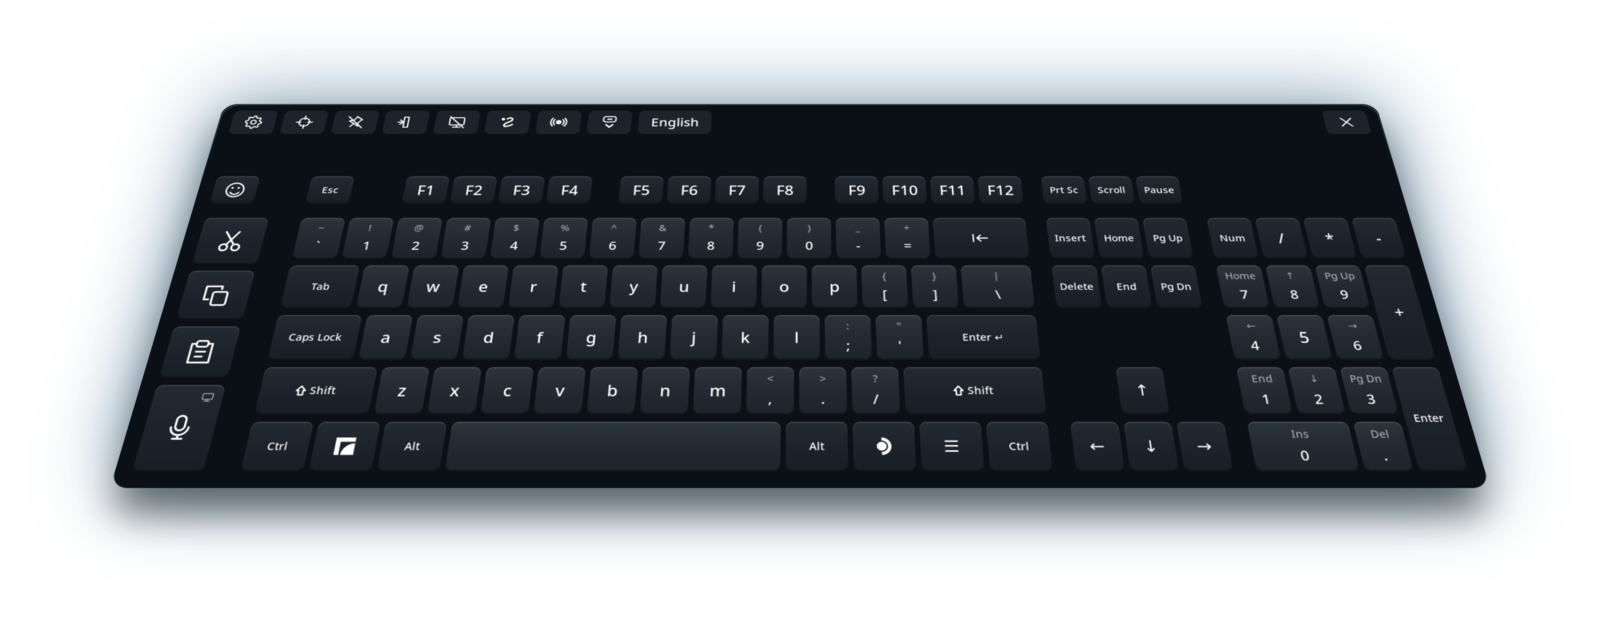
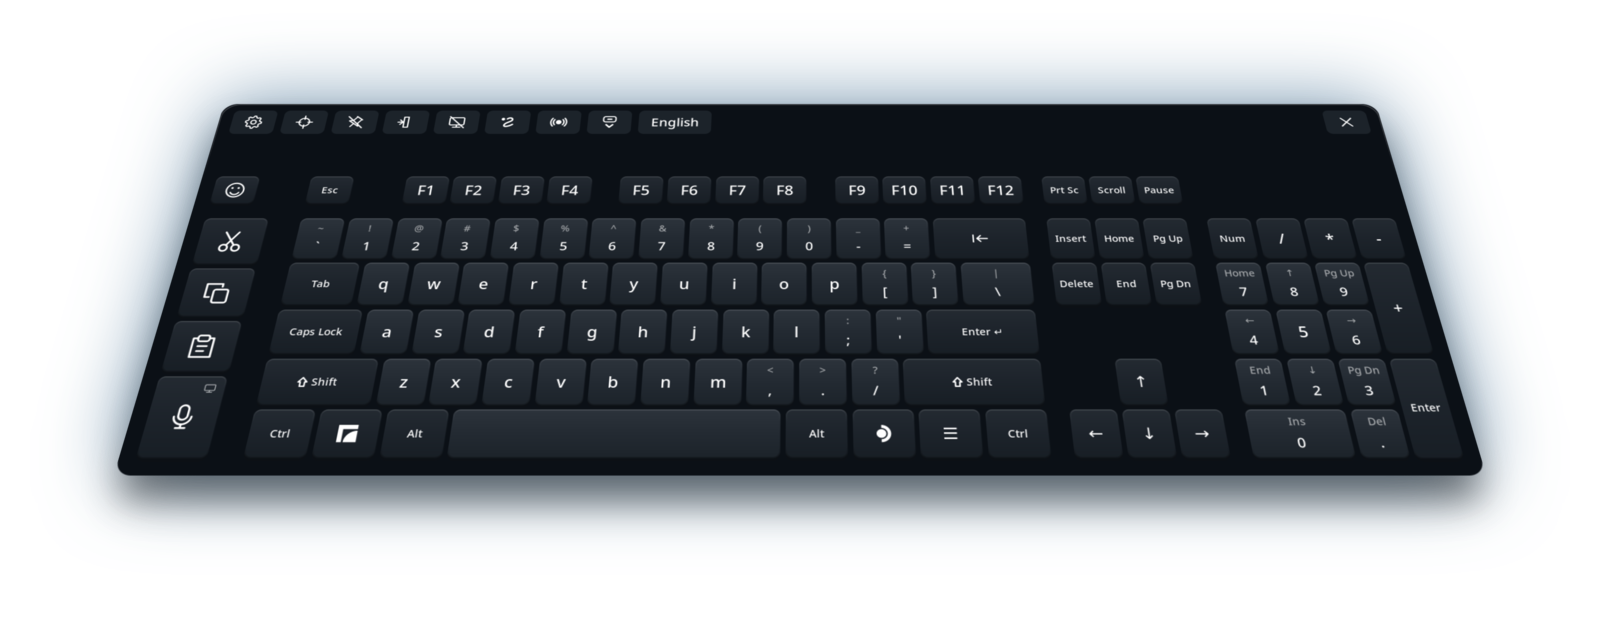
Show the keyboard's 400-unit rows in the pictures
Every bundled layout is 400 units tall since this release, but the README
image, its tilted copy and the simulator's picture still showed the 416-unit
rows. They are regenerated: the README image and keyboard-tilted.png by the
recipe in docs/building.md, simulator.png from simulator-tour's
05b-converting-after-text, whose recipe docs/simulator.md now gives.

The installer embeds the README image. Where its case ends, where the demos'
keys lie and where the numpad starts were numbers measured off the old
picture; they now come from the panel's own geometry for the full layout
(picture_geometry), and a test checks them against the embedded picture.

diff --git a/src/installer/installer.cpp b/src/installer/installer.cpp
@@ -16,25 +16,20 @@ namespace {
 
 constexpr double pi = 3.141592653589793;
 // The keyboard picture on Home: the case, 1600 x panel_height, at 56% and
-// centered. In the picture the case ends 588 pixels down, where its
-// reflection starts here. Setup slides it up.
-constexpr double picture_scale = .56, case_bottom = 588;
+// centered; its reflection starts where the case ends (PictureGeometry).
+// Setup slides it up.
+constexpr double picture_scale = .56;
 constexpr Rect picture{(Installer::width - panel_width * picture_scale) / 2, 48,
                        panel_width * picture_scale, panel_height * picture_scale};
 constexpr double slide_distance = 300, slide_seconds = .7;
 // How far a pressed button moves down: the keys' own travel.
 constexpr double press_travel = 3;
 // The same picture in the wizard: whole, as wide as a page's stage allows,
-// and at half size for a closer look at its right end. Its numpad starts
-// 1306 pixels across; without it the case ends 20 further.
-constexpr double mini_scale = .2625, half_scale = .5, numpad_left = 1306, tenkeyless_width = 1326;
+// and at half size for a closer look at its right end.
+constexpr double mini_scale = .2625, half_scale = .5;
 // The shortcut bar's picture: large enough for its buttons' labels to read,
 // with the top of the keyboard below it.
 constexpr double bar_scale = .9;
-// Where keys lie in the picture: the main block's left edge and key pitch,
-// and the middle of each row from the digits down.
-constexpr double keys_left = 146, key_pitch = 63.6;
-constexpr std::array<double, 5> row_middle{232, 307, 381, 456, 531};
 // Home: Install and its version list's chevron, one control, centered.
 constexpr Rect install_main{430, 554, 340, 76}, install_more{770, 554, 80, 76};
 // Setup's card: each page's picture on a stage to the left, its text to the
@@ -162,6 +157,45 @@ cairo_surface_t* scaled(cairo_surface_t* source, double scale) {
 
 } // namespace
 
+// The picture is the README image, the keyboard as the panel draws it with
+// the full layout in its theme (docs/building.md), so where its case ends and
+// where its keys lie come from the panel's own geometry for that layout, not
+// from numbers measured off one picture.
+PictureGeometry picture_geometry(const Layout& layout, const Theme& theme) {
+    PanelView view;
+    view.layout = &layout;
+    view.theme = &theme;
+    view.reading_room = reading_case_room(layout, theme, false); // as App gives every layout
+    PictureGeometry g;
+    const auto body = panel_case_bounds(view);
+    g.case_bottom = body.y + body.height;
+    const auto at = [&](const char* id) {
+        for (const auto& key : layout.keys) {
+            if (key.id == id) {
+                return panel_rect(view, key.bounds);
+            }
+        }
+        return Rect{};
+    };
+    g.keys_left = at("Backquote").x;
+    g.key_pitch = at("Digit2").x - at("Digit1").x;
+    std::size_t row = 0;
+    for (const char* id : {"Backquote", "Tab", "CapsLock", "ShiftLeft", "ControlLeft"}) {
+        const auto r = at(id);
+        g.row_middle[row++] = r.y + r.height / 2;
+    }
+    // The numpad starts where the keys before it end; without it the case
+    // ends one padding further.
+    for (const auto& key : layout.keys) {
+        if (key.action != "NumLock" && !key.action.starts_with("Numpad")) {
+            const auto r = panel_rect(view, key.bounds);
+            g.numpad_left = std::max(g.numpad_left, r.x + r.width);
+        }
+    }
+    g.tenkeyless_width = g.numpad_left + theme.padding;
+    return g;
+}
+
 Installer::Installer(Backend& backend, Theme theme, Layout layout, const Localization& localization)
     : backend_(backend), theme_(std::move(theme)), layout_(std::move(layout)),
       localization_(localization), font_(localization.fonts()),
@@ -170,6 +204,7 @@ Installer::Installer(Backend& backend, Theme theme, Layout layout, const Localiz
       half_(nullptr, cairo_surface_destroy), bar_picture_(nullptr, cairo_surface_destroy),
       backdrop_(nullptr, cairo_surface_destroy), grounded_(nullptr, cairo_surface_destroy),
       card_(nullptr, cairo_surface_destroy), plate_(nullptr, cairo_surface_destroy) {
+    picture_ = picture_geometry(layout_, theme_);
     PngReader reader{keyboard_png, keyboard_png_size};
     Surface image(cairo_image_surface_create_from_png_stream(read_png, &reader), cairo_surface_destroy);
     if (cairo_surface_status(image.get()) == CAIRO_STATUS_SUCCESS) {
@@ -921,7 +956,7 @@ void Installer::paint_keyboard(double slide) {
         return;
     }
     const double y = std::round(picture.y - slide_distance * slide);
-    const double floor = y + case_bottom * picture_scale;
+    const double floor = y + picture_.case_bottom * picture_scale;
     // At rest it is one picture with its shadow and reflection.
     constexpr Rect resting{picture.x - 20, picture.y - 4, picture.width + 40, picture.height + 70};
     if (slide <= 0 && (!grounded_ || cairo_get_target(cr_) != grounded_.get())) {
@@ -945,7 +980,7 @@ void Installer::paint_keyboard(double slide) {
         constexpr double depth = 56;
         auto* mirrored = cairo_pattern_create_for_surface(hero_.get());
         cairo_matrix_t flip;
-        cairo_matrix_init(&flip, 1, 0, 0, -1, -picture.x, floor + case_bottom * picture_scale);
+        cairo_matrix_init(&flip, 1, 0, 0, -1, -picture.x, floor + picture_.case_bottom * picture_scale);
         cairo_pattern_set_matrix(mirrored, &flip);
         cairo_save(cr_);
         cairo_rectangle(cr_, picture.x, floor + 2, picture.width, depth);
@@ -977,8 +1012,9 @@ void Installer::small_picture(cairo_surface_t* small, double s, double x, double
     if (!small) {
         return;
     }
-    const double h = case_bottom * s;
-    const Rect body{x, y, (tenkeyless_width + (panel_width - tenkeyless_width) * numpad) * s, h};
+    const double h = picture_.case_bottom * s;
+    const Rect body{
+        x, y, (picture_.tenkeyless_width + (panel_width - picture_.tenkeyless_width) * numpad) * s, h};
     const double radius = theme_.surface_radius * s;
     for (int i = 1; i <= 3; ++i) {
         paint::rounded(cr_, {body.x - i, body.y + i * 2, body.width + 2 * i, body.height}, radius + i);
@@ -993,10 +1029,10 @@ void Installer::small_picture(cairo_surface_t* small, double s, double x, double
     paint::source(cr_, theme_.surface);
     cairo_paint(cr_);
     cairo_set_source_surface(cr_, small, x, y);
-    cairo_rectangle(cr_, x, y, numpad_left * s, h);
+    cairo_rectangle(cr_, x, y, picture_.numpad_left * s, h);
     cairo_fill(cr_);
     if (numpad > 0) {
-        cairo_rectangle(cr_, x + numpad_left * s, y, body.width - numpad_left * s, h);
+        cairo_rectangle(cr_, x + picture_.numpad_left * s, y, body.width - picture_.numpad_left * s, h);
         cairo_clip(cr_);
         cairo_paint_with_alpha(cr_, numpad * numpad);
     }
@@ -1750,7 +1786,8 @@ void Installer::paint_replace_demo(const Rect& s, double t) {
 
     // The keyboard: up when the field is chosen, down when it's done.
     const double rise = c < 4.4 ? ease_out(phase(c, .5, .6)) : 1 - ease_in_out(phase(c, 4.4, .6));
-    const double rest = s.y + s.height - 30 - case_bottom * mini_scale, hidden = s.y + s.height + 16;
+    const double rest = s.y + s.height - 30 - picture_.case_bottom * mini_scale,
+                 hidden = s.y + s.height + 16;
     const double kx = s.x + (s.width - panel_width * mini_scale) / 2;
     const double ky = hidden + (rest - hidden) * rise;
     small_picture(mini_.get(), mini_scale, kx, ky, 1);
@@ -1759,8 +1796,10 @@ void Installer::paint_replace_demo(const Rect& s, double t) {
         {{6.25, 2}, {3.5, 1}, {9.25, 2}, {9.25, 2}, {9.5, 1}, {7, 4}, {1.25, 2}, {5.5, 1}}};
     const auto at = [&](std::size_t i) {
         const auto& [column, row] = keys[std::min(i, keys.size() - 1)];
-        return std::pair{kx + (keys_left + column * key_pitch + key_pitch / 2) * mini_scale,
-                         ky + row_middle[static_cast<std::size_t>(row)] * mini_scale};
+        return std::pair{
+            kx +
+                (picture_.keys_left + column * picture_.key_pitch + picture_.key_pitch / 2) * mini_scale,
+            ky + picture_.row_middle[static_cast<std::size_t>(row)] * mini_scale};
     };
     const double hop = std::max(0.0, (c - typing) / step);
     const auto from = at(static_cast<std::size_t>(hop)), to = at(static_cast<std::size_t>(hop) + 1);
@@ -2055,9 +2094,9 @@ void Installer::paint_numpad_demo(const Rect& s, double t) {
     const double numpad = choice_shown(4);
     // The case's right edge keeps its margin with the numpad and comes half
     // the numpad's width inward without it; the rest runs off to the left.
-    const double narrowed = (panel_width - tenkeyless_width) * (1 - numpad) * scale;
+    const double narrowed = (panel_width - picture_.tenkeyless_width) * (1 - numpad) * scale;
     const double x = s.x + s.width - margin - panel_width * scale + narrowed / 2;
-    const double y = s.y + (s.height - case_bottom * scale) / 2;
+    const double y = s.y + (s.height - picture_.case_bottom * scale) / 2;
     cairo_push_group(cr_);
     small_picture(half_.get(), scale, x, y, numpad);
     cairo_pop_group_to_source(cr_);
@@ -2075,7 +2114,7 @@ void Installer::paint_numpad_demo(const Rect& s, double t) {
     const auto at = [&](std::size_t i) {
         i = std::min(i, digits - 1);
         return std::pair{x + (1362 + 63.0 * static_cast<double>(i % 3)) * scale,
-                         y + row_middle[1 + i / 3] * scale};
+                         y + picture_.row_middle[1 + i / 3] * scale};
     };
     const double hop = std::max(0.0, (c - typing) / step);
     const auto from = at(static_cast<std::size_t>(hop)), to = at(static_cast<std::size_t>(hop) + 1);
@@ -2095,9 +2134,10 @@ void Installer::paint_curve_demo(const Rect& s, double t) {
     // The real proportions, in the picture's pixels at mini_scale: the
     // handle is 8 by 200 texture pixels, its middle 42 outside the case.
     constexpr double fit = .86, most = .12, eye = 1.5, drop = .3;
-    const double width = panel_width * mini_scale * fit, height = case_bottom * mini_scale * fit;
+    const double width = panel_width * mini_scale * fit,
+                 height = picture_.case_bottom * mini_scale * fit;
     const double cx = s.x + s.width / 2, cy = s.y + s.height / 2 - 6;
-    const double kx = cx - panel_width * mini_scale / 2, ky = cy - case_bottom * mini_scale / 2;
+    const double kx = cx - panel_width * mini_scale / 2, ky = cy - picture_.case_bottom * mini_scale / 2;
 
     constexpr double cycle = 6.4, arrive = .8, grab = 1.0, bent = 2.2, let_go = 2.6, regrab = 3.4,
                      flat = 4.6, release = 4.8, leave = 5.4;
@@ -2307,7 +2347,8 @@ void Installer::paint_stream_demo(const Rect& s, double t) {
     // The keyboard: up while the line is typed, down when it is sent.
     const double rise =
         c < done + hold ? ease_out(phase(c, .3, .6)) : 1 - ease_in_out(phase(c, done + hold, .6));
-    const double rest = s.y + s.height - 30 - case_bottom * mini_scale, hidden = s.y + s.height + 16;
+    const double rest = s.y + s.height - 30 - picture_.case_bottom * mini_scale,
+                 hidden = s.y + s.height + 16;
     const double kx = s.x + (s.width - panel_width * mini_scale) / 2;
     const double ky = hidden + (rest - hidden) * rise;
     small_picture(mini_.get(), mini_scale, kx, ky, 1);
@@ -2316,8 +2357,10 @@ void Installer::paint_stream_demo(const Rect& s, double t) {
         {{4.5, 2}, {7.5, 1}, {1.5, 3}, {6, 2}, {9, 1}, {3, 1}, {5.5, 3}}};
     const auto at = [&](std::size_t i) {
         const auto& [column, row] = keys[i % keys.size()];
-        return std::pair{kx + (keys_left + column * key_pitch + key_pitch / 2) * mini_scale,
-                         ky + row_middle[static_cast<std::size_t>(row)] * mini_scale};
+        return std::pair{
+            kx +
+                (picture_.keys_left + column * picture_.key_pitch + picture_.key_pitch / 2) * mini_scale,
+            ky + picture_.row_middle[static_cast<std::size_t>(row)] * mini_scale};
     };
     const double hop = std::clamp(progress, 0.0, count - 1);
     const auto from = at(static_cast<std::size_t>(hop)), to = at(static_cast<std::size_t>(hop) + 1);

diff --git a/tests/installer_wizard_tests.cpp b/tests/installer_wizard_tests.cpp
@@ -3,6 +3,7 @@
 // downloaded or started, and no settings file is written.
 #include "../src/installer/installer.hpp"
 #include "framekeyboard/config.hpp"
+#include <algorithm>
 #include <cairo.h>
 #include <cstdint>
 #include <iostream>
@@ -11,6 +12,10 @@
 #include <string>
 #include <vector>
 
+namespace framekeyboard::installer {
+extern const unsigned char keyboard_png[];
+extern const std::size_t keyboard_png_size;
+} // namespace framekeyboard::installer
 namespace fk = framekeyboard;
 namespace in = framekeyboard::installer;
 using A = in::Installer::Action;
@@ -48,7 +53,8 @@ struct RecordingBackend : in::Backend {
         finished = choices;
         state.task = in::Task::Finish;
         state.state = fail_streaming && choices.streaming ? in::State::Failed : in::State::Done;
-        state.error = state.state == in::State::Failed ? fk::ui("installer.error.streaming") : fk::UiText{};
+        state.error =
+            state.state == in::State::Failed ? fk::ui("installer.error.streaming") : fk::UiText{};
     }
     in::Status status() override { return state; }
 };
@@ -259,6 +265,54 @@ void finish_list_fits(const fk::Profiles& profiles) {
                 std::string(posix) + ": and with Restart SteamOS ticked");
     }
 }
+// The picture's geometry, derived from the layout it shows, matches the
+// embedded picture: its case ends where the derived case does, and a key the
+// demos aim at is drawn where the derived rows and pitch put it.
+void picture_geometry(const fk::Profiles& profiles) {
+    struct Reader {
+        const unsigned char* data;
+        std::size_t size, at;
+    } reader{in::keyboard_png, in::keyboard_png_size, 0};
+    auto* picture = cairo_image_surface_create_from_png_stream(
+        [](void* closure, unsigned char* out, unsigned int length) {
+            auto& r = *static_cast<Reader*>(closure);
+            if (r.size - r.at < length) {
+                return CAIRO_STATUS_READ_ERROR;
+            }
+            std::copy_n(r.data + r.at, length, out);
+            r.at += length;
+            return CAIRO_STATUS_SUCCESS;
+        },
+        &reader);
+    require(cairo_surface_status(picture) == CAIRO_STATUS_SUCCESS, "the embedded picture decodes");
+    const auto* data = cairo_image_surface_get_data(picture);
+    const int stride = cairo_image_surface_get_stride(picture);
+    const int height = cairo_image_surface_get_height(picture);
+    const auto alpha = [&](int x, int y) {
+        return reinterpret_cast<const std::uint32_t*>(data + y * stride)[x] >> 24;
+    };
+    // The case's last opaque row, at its left, where no key or line lies.
+    int last = 0;
+    while (last + 1 < height && alpha(100, last + 1) > 128) {
+        ++last;
+    }
+    const auto g =
+        in::picture_geometry(profiles.layouts.at("en-us-full"), profiles.themes.at("graphite"));
+    require(std::abs(g.case_bottom - (last + 1)) <= 1, "the case ends where the derived geometry says");
+    // Each derived row's middle, in the column of Backquote and Tab, is a key
+    // face, lighter than the case's gap between the first two rows.
+    const auto light = [&](double x, double y) {
+        const auto p = reinterpret_cast<const std::uint32_t*>(data + static_cast<int>(y) *
+                                                                         stride)[static_cast<int>(x)];
+        return ((p >> 16) & 255) + ((p >> 8) & 255) + (p & 255);
+    };
+    const double x = g.keys_left + .2 * g.key_pitch;
+    const double gap = light(x, (g.row_middle[0] + g.row_middle[1]) / 2 + 3);
+    for (const double y : g.row_middle) {
+        require(light(x, y) > gap + 30, "a key lies where the derived rows put it");
+    }
+    cairo_surface_destroy(picture);
+}
 // What Finish saves: the bar's answer either way when its page was offered,
 // as every other page's; without the page the setting stays as loaded (R423).
 void saved_settings() {
@@ -292,6 +346,7 @@ int main() {
         localization.load({}, {});
         localization.choose(fk::SystemLanguage{"", "en_US.UTF-8"});
         saved_settings();
+        picture_geometry(profiles);
         shortcuts_page(profiles, localization);
         finish_without(profiles, localization);
         finish_list_fits(profiles);

diff --git a/src/installer/installer.hpp b/src/installer/installer.hpp
@@ -13,11 +13,21 @@
 #include "framekeyboard/config.hpp"
 #include "framekeyboard/layout.hpp"
 #include "framekeyboard/localization.hpp"
+#include <array>
 #include <cairo.h>
 #include <memory>
 #include <pango/pango.h>
 
 namespace framekeyboard::installer {
+
+// Where the embedded keyboard picture's case ends and its keys lie, in the
+// picture's own pixels: from the layout the picture shows (picture_geometry).
+struct PictureGeometry {
+    double case_bottom{}, keys_left{}, key_pitch{};
+    std::array<double, 5> row_middle{}; // the digits' row down to Space's
+    double numpad_left{}, tenkeyless_width{};
+};
+PictureGeometry picture_geometry(const Layout& layout, const Theme& theme);
 
 class Installer {
   public:
@@ -192,6 +202,7 @@ class Installer {
     Backend& backend_;
     Theme theme_;
     Layout layout_;
+    PictureGeometry picture_;
     const Localization& localization_;
     std::string font_;
     using Surface = std::unique_ptr<cairo_surface_t, decltype(&cairo_surface_destroy)>;

diff --git a/docs/simulator.md b/docs/simulator.md
@@ -271,3 +271,15 @@ To check many Japanese phrases, use [`--japanese-candidates`](#japanese-candidat
 The simulator lives in `src/simulator/`; its AppImage's launcher, desktop entry and icon in `scripts/simulator-appimage/`. `field.cpp` is the text field and the sink that takes the keyboard's output; `simulator.cpp` draws the window's contents and routes pointers to `App`, using only Cairo and Pango; `platform_linux.cpp` finds its folders and points Anthy at a dictionary; `main.cpp` is the SDL window. A Windows port needs its own `platform` file and a `keyboard_core` that builds there.
 
 The `simulator` CTest checks the field's editing keys, caret and clipboard, the slow field's confirmations, and the keyboard typing through the simulator: flick, Enter, ↶ in normal and slow fields, English with a held Shift, Copy and Paste, and leaving the keyboard, and the shortcut bar: its editor, profiles following the App button, and a Run button, which starts a real command that writes a marker in the test's own temporary folder. `build/host/simulator-tour DIR` renders the window in a few typed states to PNG files for review, with real candidates when Anthy is set up as above.
+
+The picture at the top of this page is the tour's `05b-converting-after-text.png`, scaled to 75% and cut below the window's buttons:
+
+```sh
+A=/path/to/unpacked/anthy
+tour=$(mktemp -d)
+LD_LIBRARY_PATH=$A/usr/lib FRAMEKEYBOARD_ANTHY_DICTIONARY=$A/usr/share/anthy/anthy.dic \
+    ./build/host/simulator-tour "$tour"
+magick "$tour/05b-converting-after-text.png" -resize 75% -crop 1200x668+0+0 +repage -strip \
+    docs/images/simulator.png
+rm -r "$tour"
+```
